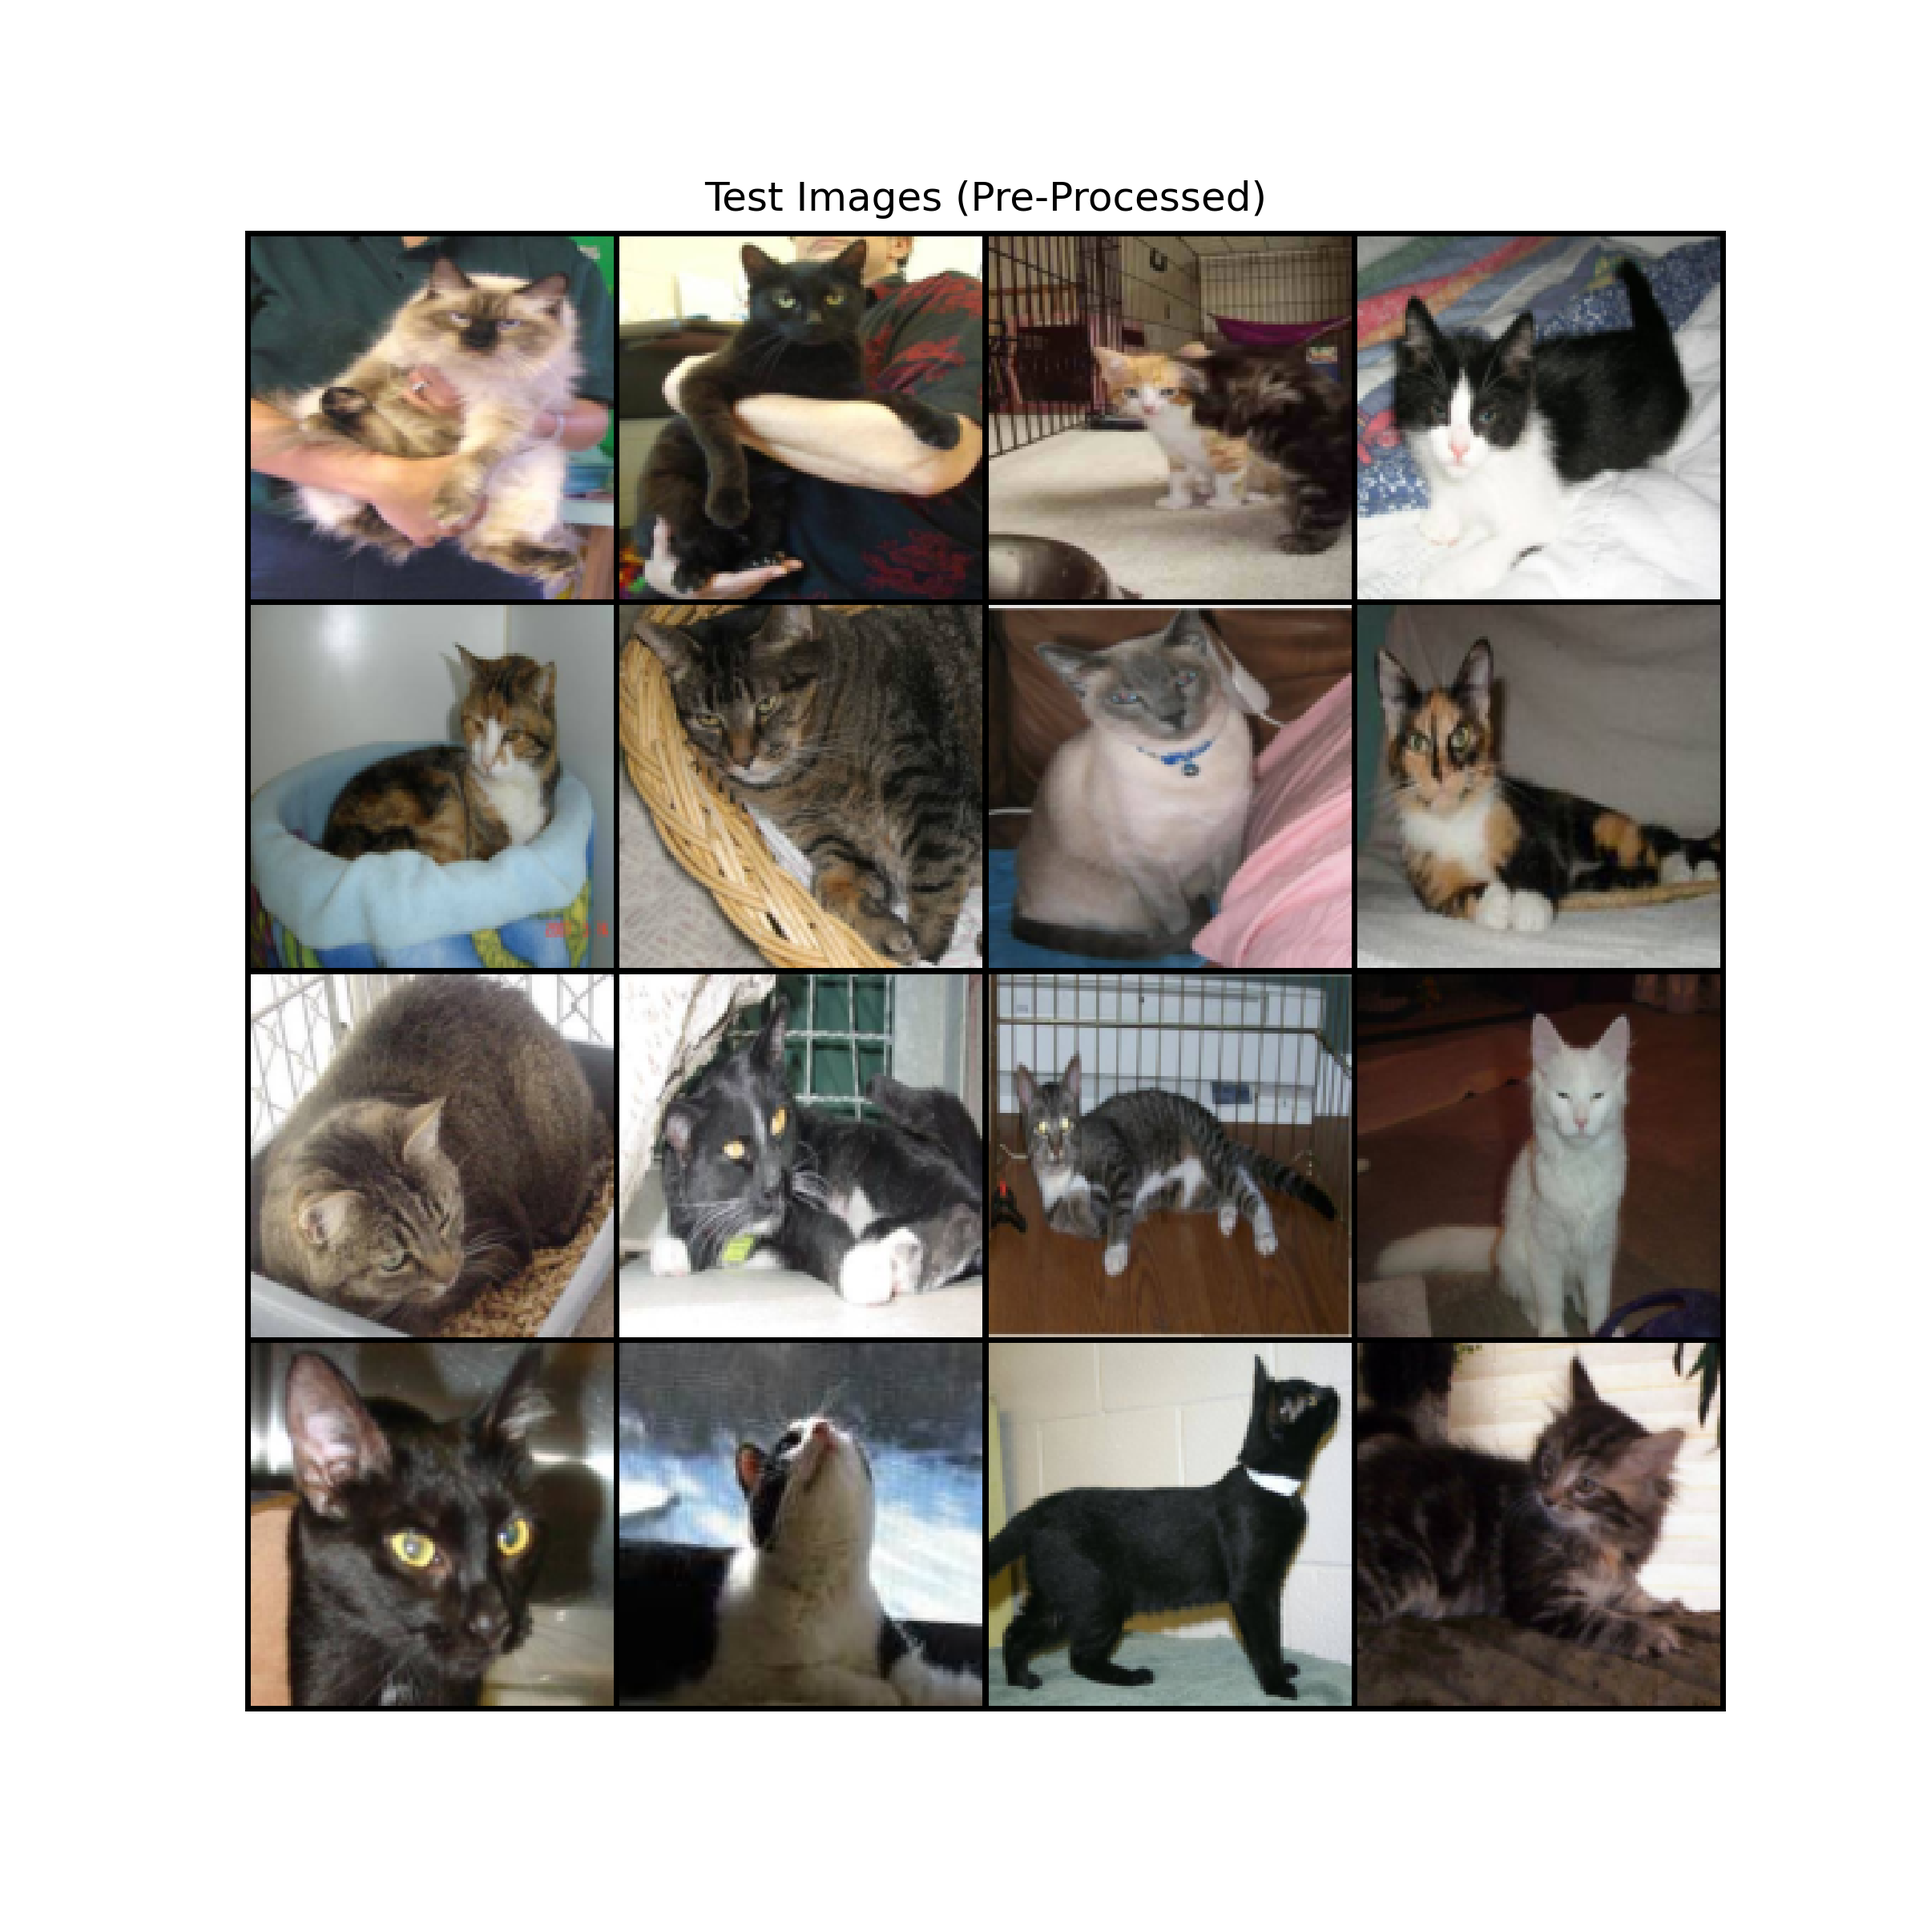
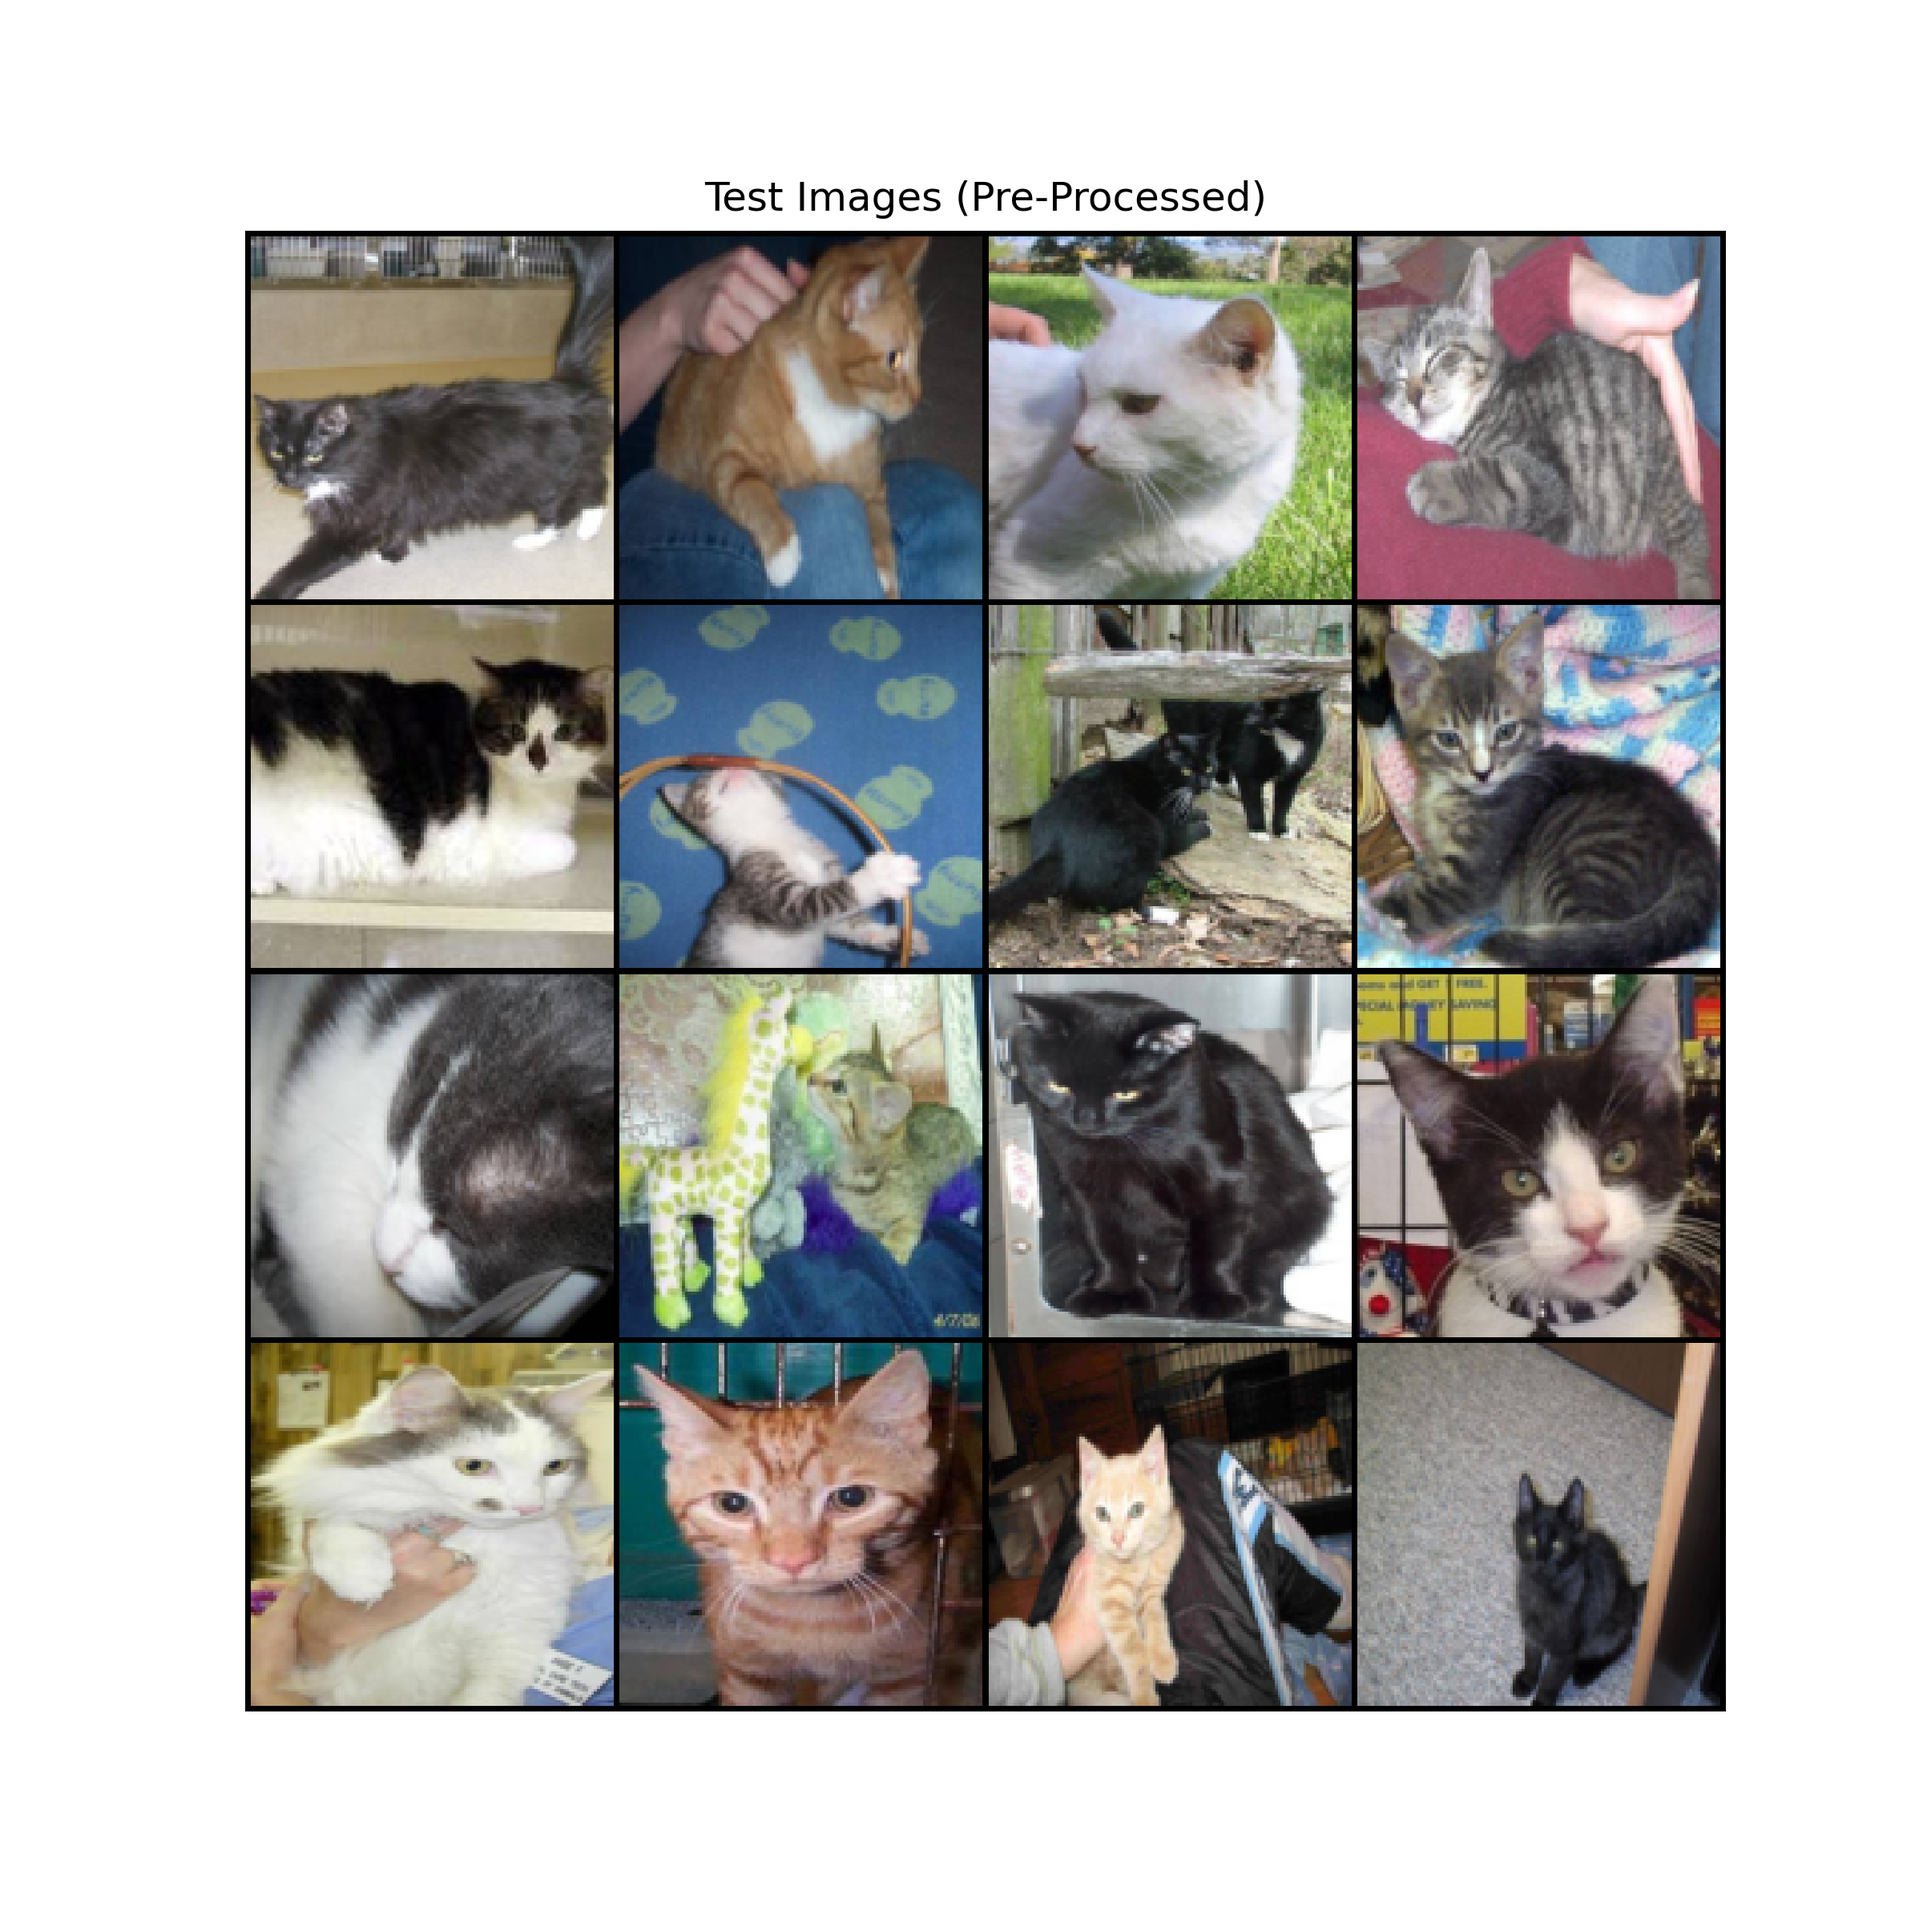
Renamed some files for importing

diff --git a/vq_vae.py b/vq_vae.py
@@ -1,4 +1,6 @@
 # Implementation of Vector-Quantized Variational Auto-Encoder (VAE)
+# This version of the script trains the model on previously-generated sample of images (train split)
+# and evaluates it on similar images (test split)
 
 # Inputs:
 #   sequence of frames (*.png) located in ./frames/(Game-Name)/
@@ -112,7 +114,7 @@ class VQ_VAE(nn.Module):
 
 
 # Directory of images
-path_img = "./frames/Testing-Cats/"
+path_img = "./frames/Testing-Cats/test/"
 # Directory for output
 path_out = "./output/Testing-Cats/"
 
